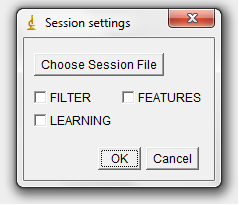
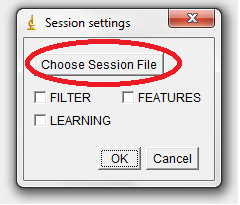
update Session
update Session

Changed region(s): [[0.0875, 0.1756, 0.7583, 0.439]]

diff --git a/index.html b/index.html
@@ -38,7 +38,9 @@ of ImageJ. The idea is to make it generic and user friendly so that we can inclu
 like filters and machine learning frameworks like active learning, multi-instance learning designed by third party in a robust manner.</p>
 <h3>
 <a id="Session-Screen" class="anchor" href="#Session-Screen" aria-hidden="true"><span class="octicon octicon-link"></span></a>Session Screen</h3>
-<p> Session screen will load the existing(Previous) session of the project. It provide you the option to load the filter, Feature and learning Data. The user have to select the session file using the chose selection button. The whole meta-data of the project will be saved in the same directory as selected by the user.The session file must be in JSON format</p>
+<p>Session is a provision for storing project data in the session file. It save the state of the system. First image illustrates the window for Session Screen. Session screen will load the existing(Previous) session of the project. 
+It provide you the option to load the filter, Feature and learning Data. The "Choose Session File" button is used for loading session file from the local file system. The whole meta-data of the project will be saved in the same directory as selected by the user.
+The session file must be in JSON format</p>
 <p><img src="images/SessionScreen.png"></a></p>
 <pre><code>
 	public MetaInfo getMetaInfo() {
@@ -66,13 +68,13 @@ like filters and machine learning frameworks like active learning, multi-instanc
 </code></pre>
 <h3>
 <a id="Filter-Screen" class="anchor" href="#Filter-Screen" aria-hidden="true"><span class="octicon octicon-link"></span></a>Filter Screen</h3>
-<p>Active Segmentation Filters Screen<img src="images/FilterScreen.png"></a></p>
+<p>Active Segmentation Filters Screen<img src="images/FilterScreen.png"> &nbsp;&nbsp;&nbsp;<img src="images/LOADSESSION.png"></p>
 <h3>
 <a id="Feature-Screen" class="anchor" href="#Feature-Screen" aria-hidden="true"><span class="octicon octicon-link"></span></a>Feature Screen</h3>
-<p>Active Segmentation Features Screen<img src="images/FeatureScreen.png"></a></p>
+<p>Active Segmentation Features Screen<img src="images/FeatureScreen.png"></p>
 <h3>
 <a id="Class-Screen" class="anchor" href="#Class-Screen" aria-hidden="true"><span class="octicon octicon-link"></span></a>Class Screen</h3>
-<p><img src="images/ClassScreen.png"></a></p>
+<p><img src="images/ClassScreen.png"></p>
 
 
 
